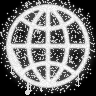
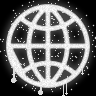
Grafitis: globo en las paredes (sin textos espejados) y más cajones
El juego muestra las texturas espejadas en más o menos la mitad de las
paredes de de_dust2: un «SLA» ahí salía al revés. En las paredes y los
cajones va el globo (simétrico) y las letras van en los cajones militares,
que en de_dust2 siempre se ven al derecho. Los aerosoles de los bots son
casi todos el globo, con algunos «SLA». La reducción a 256 colores ahora
usa un histograma: pintar de_dust tarda 0,15 s en vez de 0,7.

Claude-Session: https://claude.ai/code/session_01F89Rp7FaRSEsWf3XCJkMyC

diff --git a/web/cliente/grafitis.js b/web/cliente/grafitis.js
@@ -2,9 +2,9 @@
 //
 // Cuando el juego carga sus archivos (los del servidor o los propios de cada jugador),
 // esta página pinta los grafitis de marca/web/grafitis/ encima de algunas texturas:
-//   - de_dust y de_dust2: «SLA» en aerosol en una de las dos piedras de pared que el juego
-//     reparte al azar (sale en más o menos la mitad de las paredes), el globo de SLA debajo
-//     de las ventanas y el logo en esténcil en los cajones grandes.
+//   - de_dust y de_dust2: el globo de SLA en aerosol en una de las dos piedras de pared que
+//     el juego reparte al azar (sale en más o menos la mitad de las paredes) y debajo de las
+//     ventanas, el globo en esténcil en los cajones y «SLA» en los cajones militares.
 //   - Todos los mapas: los aerosoles que tiran los bots (logos.cfg de YaPB) pasan a ser el
 //     logo, la palabra y el globo de SLA, en verde, negro y blanco.
 // Solo se cambian texturas que vienen en archivos .wad aparte del mapa: el mapa queda igual
@@ -19,21 +19,25 @@ const BLANCO = [236, 236, 230];
 const DECALS = ['cstrike/decals.wad', 'valve/decals.wad'];
 
 export const PARCHES = [
-    { archivos: ['cstrike/cs_dust.wad'], textura: '-1CSSANDWALL', tipo: 'pared', imagen: 'pared-sla.png' },
+    // El globo es simétrico: el juego muestra las texturas espejadas en la mitad de las
+    // paredes y un texto saldría al revés. Las letras van donde se ven al derecho.
+    { archivos: ['cstrike/cs_dust.wad'], textura: '-1CSSANDWALL', tipo: 'pared', imagen: 'pared-globo.png' },
     { archivos: ['cstrike/cs_dust.wad'], textura: 'SANDWLLWNDW', tipo: 'pared', imagen: 'ventana-logo.png' },
-    { archivos: ['cstrike/cs_dust.wad'], textura: 'SANDCRTLRGSD', tipo: 'pared', imagen: 'caja-logo.png' },
+    { archivos: ['cstrike/cs_dust.wad'], textura: 'SANDCRTLRGSD', tipo: 'pared', imagen: 'caja-globo.png' },
+    { archivos: ['cstrike/cs_dust.wad'], textura: 'SANDCRTSMSD', tipo: 'pared', imagen: 'caja-chica-globo.png' },
+    { archivos: ['cstrike/cs_dust.wad'], textura: 'MLTRYCRTESD', tipo: 'pared', imagen: 'caja-militar-sla.png' },
     // aerosoles de los bots: un solo color (el juego usa la imagen como transparencia)
     { archivos: DECALS, textura: '{GRAF003', tipo: 'calco', imagen: 'calco-palabra.png', color: VERDE },
     { archivos: DECALS, textura: '{GRAF004', tipo: 'calco', imagen: 'calco-sla.png', color: NEGRO },
-    { archivos: DECALS, textura: '{GRAF005', tipo: 'calco', imagen: 'calco-sla.png', color: VERDE },
+    { archivos: DECALS, textura: '{GRAF005', tipo: 'calco', imagen: 'calco-globo.png', color: VERDE },
     { archivos: DECALS, textura: '{BIOHAZ', tipo: 'calco', imagen: 'calco-globo.png', color: VERDE },
     { archivos: DECALS, textura: '{LAMBDA06', tipo: 'calco', imagen: 'calco-globo.png', color: NEGRO },
     { archivos: DECALS, textura: '{TARGET', tipo: 'calco', imagen: 'calco-palabra.png', color: BLANCO },
-    { archivos: DECALS, textura: '{HAND1', tipo: 'calco', imagen: 'calco-sla.png', color: BLANCO },
+    { archivos: DECALS, textura: '{HAND1', tipo: 'calco', imagen: 'calco-globo.png', color: BLANCO },
     { archivos: DECALS, textura: '{SPIT2', tipo: 'calco', imagen: 'calco-globo.png', color: BLANCO },
-    { archivos: DECALS, textura: '{BLOODHAND6', tipo: 'calco', imagen: 'calco-palabra.png', color: NEGRO },
-    { archivos: DECALS, textura: '{FOOT_L', tipo: 'calco', imagen: 'calco-sla.png', color: VERDE },
-    { archivos: DECALS, textura: '{FOOT_R', tipo: 'calco', imagen: 'calco-globo.png', color: VERDE },
+    { archivos: DECALS, textura: '{BLOODHAND6', tipo: 'calco', imagen: 'calco-sla.png', color: VERDE },
+    { archivos: DECALS, textura: '{FOOT_L', tipo: 'calco', imagen: 'calco-globo.png', color: VERDE },
+    { archivos: DECALS, textura: '{FOOT_R', tipo: 'calco', imagen: 'calco-globo.png', color: NEGRO },
 ];
 
 // ------------------------------------------------------------------ .wad
@@ -115,47 +119,63 @@ export function reemplazar(bytes, cambios) {
 }
 
 // ---------------------------------------------------------------- colores
-// Reduce una imagen a 256 colores (corte por la mediana)
+// Reduce una imagen a 256 colores (corte por la mediana, sobre un histograma de 32 niveles
+// por canal: rápido aunque la textura sea grande; los colores salen del promedio exacto)
 export function cuantizar(rgb) {
     const n = rgb.length / 3;
-    let cajas = [Int32Array.from({ length: n }, (_, i) => i)];
-    const rango = (caja) => {
+    const cuenta = new Uint32Array(32768);
+    const suma = new Float64Array(32768 * 3);
+    for (let i = 0; i < n; i++) {
+        const r = rgb[i * 3];
+        const g = rgb[i * 3 + 1];
+        const b = rgb[i * 3 + 2];
+        const k = ((r >> 3) << 10) | ((g >> 3) << 5) | (b >> 3);
+        cuenta[k]++;
+        suma[k * 3] += r;
+        suma[k * 3 + 1] += g;
+        suma[k * 3 + 2] += b;
+    }
+    const usados = [];
+    for (let k = 0; k < 32768; k++) if (cuenta[k]) usados.push(k);
+    const nivel = (k, c) => (c === 0 ? k >> 10 : c === 1 ? (k >> 5) & 31 : k & 31);
+    const medir = (caja) => {
+        let total = 0;
         let mejor = -1;
         let canal = 0;
+        for (const k of caja) total += cuenta[k];
         for (let c = 0; c < 3; c++) {
-            let min = 255;
+            let min = 31;
             let max = 0;
-            for (const i of caja) {
-                const x = rgb[i * 3 + c];
-                if (x < min) min = x;
-                if (x > max) max = x;
-            }
+            for (const k of caja) { const x = nivel(k, c); if (x < min) min = x; if (x > max) max = x; }
             if (max - min > mejor) { mejor = max - min; canal = c; }
         }
-        return { mejor, canal };
+        return { puntaje: mejor * Math.sqrt(total), canal, total };
     };
+    let cajas = [{ bins: Int32Array.from(usados), ...medir(usados) }];
     while (cajas.length < 256) {
         let elegida = -1;
-        let puntaje = 0;
-        let canal = 0;
-        cajas.forEach((caja, k) => {
-            if (caja.length < 2) return;
-            const r = rango(caja);
-            const p = r.mejor * Math.sqrt(caja.length);
-            if (p > puntaje) { puntaje = p; elegida = k; canal = r.canal; }
-        });
+        for (let i = 0; i < cajas.length; i++) {
+            if (cajas[i].bins.length > 1 && (elegida < 0 || cajas[i].puntaje > cajas[elegida].puntaje)) elegida = i;
+        }
         if (elegida < 0) break;
-        const caja = cajas[elegida].slice().sort((a, b) => rgb[a * 3 + canal] - rgb[b * 3 + canal]);
-        const medio = caja.length >> 1;
-        cajas.splice(elegida, 1, caja.subarray(0, medio), caja.subarray(medio));
+        const { bins, canal, total } = cajas[elegida];
+        const orden = bins.slice().sort((a, b) => nivel(a, canal) - nivel(b, canal));
+        let acum = 0;
+        let corte = 1;
+        for (; corte < orden.length - 1; corte++) {
+            acum += cuenta[orden[corte - 1]];
+            if (acum * 2 >= total) break;
+        }
+        const a = orden.subarray(0, corte);
+        const b = orden.subarray(corte);
+        cajas.splice(elegida, 1, { bins: a, ...medir(a) }, { bins: b, ...medir(b) });
     }
     const paleta = new Uint8Array(768);
-    cajas.forEach((caja, k) => {
-        for (let c = 0; c < 3; c++) {
-            let s = 0;
-            for (const i of caja) s += rgb[i * 3 + c];
-            paleta[k * 3 + c] = Math.round(s / Math.max(1, caja.length));
-        }
+    cajas.forEach((caja, j) => {
+        let t = 0;
+        const s = [0, 0, 0];
+        for (const k of caja.bins) { t += cuenta[k]; for (let c = 0; c < 3; c++) s[c] += suma[k * 3 + c]; }
+        for (let c = 0; c < 3; c++) paleta[j * 3 + c] = Math.round(s[c] / Math.max(1, t));
     });
     return paleta;
 }

diff --git a/marca/fuente/grafitis.py b/marca/fuente/grafitis.py
@@ -4,10 +4,12 @@ Uso (desde la carpeta del proyecto, con numpy, cairosvg y pillow instalados):
     python3 marca/fuente/grafitis.py
 
 Deja en marca/web/grafitis/:
-  pared-sla.png     «SLA» en aerosol para las paredes de piedra (128 × 240)
-  ventana-logo.png  el globo de SLA debajo de las ventanas (128 × 240)
-  caja-logo.png     el logo en esténcil blanco para los cajones grandes (128 × 128)
-  calco-*.png       máscaras de un solo color para los aerosoles que tiran los bots
+  pared-globo.png       el globo de SLA en aerosol para las paredes de piedra (128 × 240)
+  ventana-logo.png      el globo debajo de las ventanas (128 × 240)
+  caja-globo.png        el globo en esténcil para los cajones grandes (128 × 128)
+  caja-chica-globo.png  lo mismo para los cajones chicos (64 × 64)
+  caja-militar-sla.png  «SLA» en esténcil para los cajones militares (64 × 64)
+  calco-*.png           máscaras de un solo color para los aerosoles que tiran los bots
 
 Son capas con transparencia, hechas solo con el logo de SLA: la página las pinta encima
 de las texturas del juego de cada jugador cuando arranca (nada del juego se copia acá).
@@ -126,24 +128,39 @@ def grafiti_con_borde(forma: np.ndarray, rng, relleno=VERDE, borde=TINTA, grosor
     return lienzo
 
 
-def pared_sla(rng) -> Image.Image:
-    letras = mascara(LOGO, 104, CORTE_LETRAS)
-    forma = ubicar(letras, (128, 240), (64, 126), angulo=7)
-    return grafiti_con_borde(forma, rng, chorros=9, largo=(6, 22))
+def pared_globo(rng) -> Image.Image:
+    """El globo en aerosol para las paredes de piedra. Es simétrico a propósito: el juego
+    muestra las texturas espejadas en más o menos la mitad de las paredes, y un texto ahí
+    saldría al revés; el globo se ve igual de los dos lados."""
+    globo = mascara(GLOBO, 74)
+    forma = ubicar(globo, (128, 240), (64, 120))
+    return grafiti_con_borde(forma, rng, grosor=2, chorros=8, largo=(6, 22))
 
 
 def ventana_logo(rng) -> Image.Image:
-    globo = mascara(GLOBO, 64)
-    forma = ubicar(globo, (128, 240), (66, 160), angulo=-4)
-    return grafiti_con_borde(forma, rng, grosor=2, chorros=5, largo=(5, 18))
+    globo = mascara(GLOBO, 60)
+    forma = ubicar(globo, (128, 240), (64, 162))
+    return grafiti_con_borde(forma, rng, relleno=(238, 238, 232), grosor=2, chorros=5, largo=(5, 18))
 
 
-def caja_logo(rng) -> Image.Image:
-    """Esténcil: el logo completo en blanco gastado, como pintado sobre la madera."""
-    logo = mascara(LOGO, 108)
-    forma = ubicar(logo, (128, 128), (64, 66))
+def estencil(forma: np.ndarray, rng, rgb=(236, 230, 210), fuerza=0.9) -> Image.Image:
+    """Pintura con plantilla, gastada, como sobre la madera de un cajón."""
     gastado = np.clip(forma * (0.55 + 0.45 * difuminar(rng.random(forma.shape).astype(np.float32), 1.6) * 1.6), 0, 1)
-    return color(aerosol(gastado, rng, halo=0.12, gotas=0.08, chorros=0) * 0.9, (236, 230, 210))
+    return color(aerosol(gastado, rng, halo=0.12, gotas=0.08, chorros=0) * fuerza, rgb)
+
+
+def caja_globo(rng) -> Image.Image:
+    return estencil(ubicar(mascara(GLOBO, 78), (128, 128), (64, 64)), rng)
+
+
+def caja_chica_globo(rng) -> Image.Image:
+    return estencil(ubicar(mascara(GLOBO, 40), (64, 64), (32, 32)), rng)
+
+
+def caja_militar_sla(rng) -> Image.Image:
+    """«SLA» en esténcil para los cajones militares de de_dust2 (ahí se ven siempre al derecho)."""
+    letras = mascara(LOGO, 54, CORTE_LETRAS)
+    return estencil(ubicar(letras, (64, 64), (32, 34)), rng, rgb=(22, 22, 18), fuerza=0.9)   # el cajón es claro: va en negro
 
 
 def calcos(rng) -> dict[str, Image.Image]:
@@ -152,9 +169,9 @@ def calcos(rng) -> dict[str, Image.Image]:
     letras = mascara(LOGO, 104, CORTE_LETRAS)
     globo = mascara(GLOBO, 84)
     return {
-        'calco-palabra.png': a_imagen(aerosol(ubicar(palabra, (128, 48), (64, 22)), rng, chorros=5, largo=(3, 9))),
-        'calco-sla.png': a_imagen(aerosol(ubicar(letras, (128, 64), (64, 28), angulo=6), rng, chorros=7, largo=(4, 12))),
-        'calco-globo.png': a_imagen(aerosol(ubicar(globo, (96, 96), (48, 46)), rng, chorros=5, largo=(4, 12))),
+        'calco-palabra.png': a_imagen(aerosol(ubicar(palabra, (128, 48), (64, 22)), rng, gotas=0.06, chorros=5, largo=(3, 9))),
+        'calco-sla.png': a_imagen(aerosol(ubicar(letras, (128, 64), (64, 28), angulo=6), rng, gotas=0.06, chorros=7, largo=(4, 12))),
+        'calco-globo.png': a_imagen(aerosol(ubicar(globo, (96, 96), (48, 46)), rng, gotas=0.06, chorros=5, largo=(4, 12))),
     }
 
 
@@ -162,9 +179,11 @@ def main() -> None:
     SALIDA.mkdir(parents=True, exist_ok=True)
     rng = np.random.default_rng(1203)
     hechos = {
-        'pared-sla.png': pared_sla(rng),
+        'pared-globo.png': pared_globo(rng),
         'ventana-logo.png': ventana_logo(rng),
-        'caja-logo.png': caja_logo(rng),
+        'caja-globo.png': caja_globo(rng),
+        'caja-chica-globo.png': caja_chica_globo(rng),
+        'caja-militar-sla.png': caja_militar_sla(rng),
         **calcos(rng),
     }
     for nombre, im in hechos.items():
